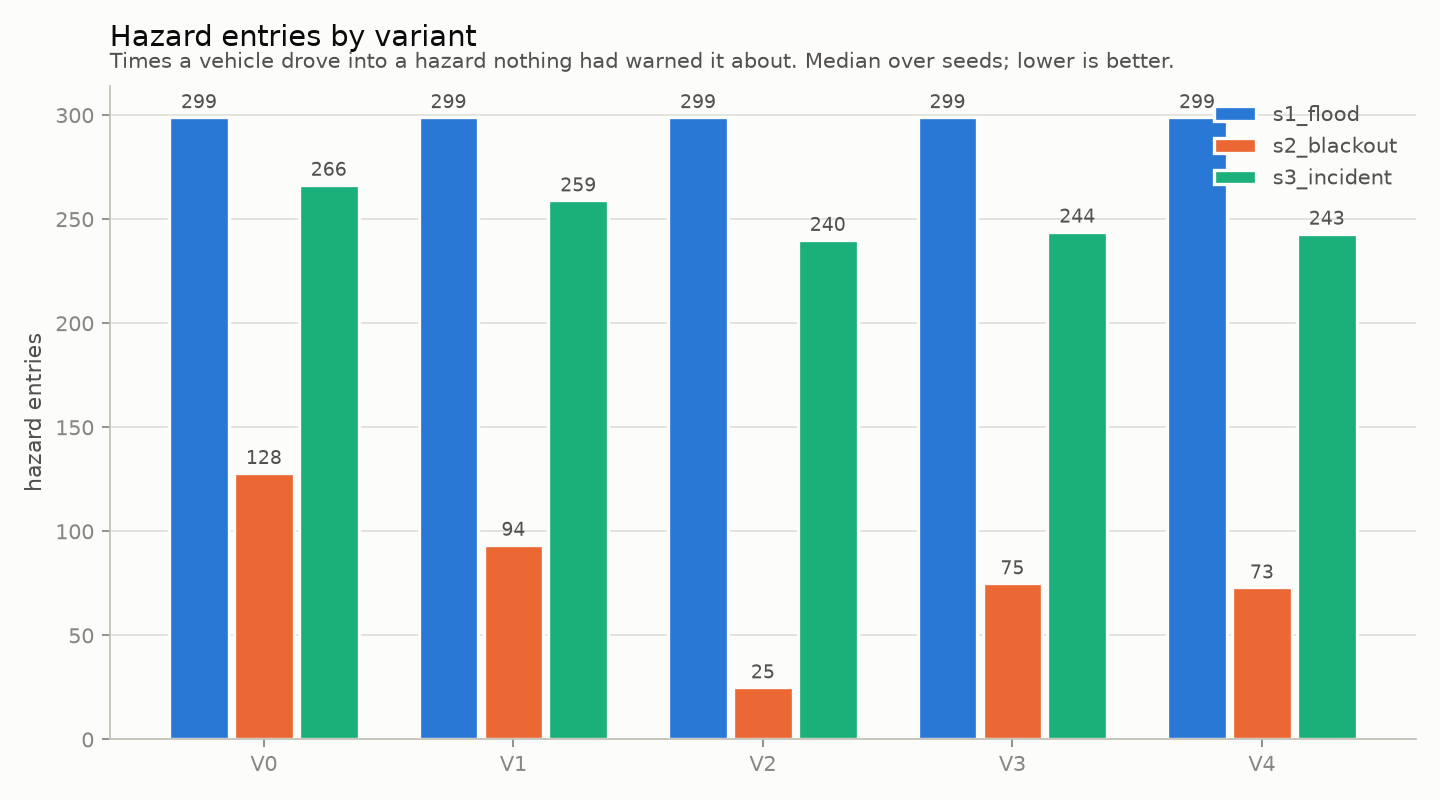
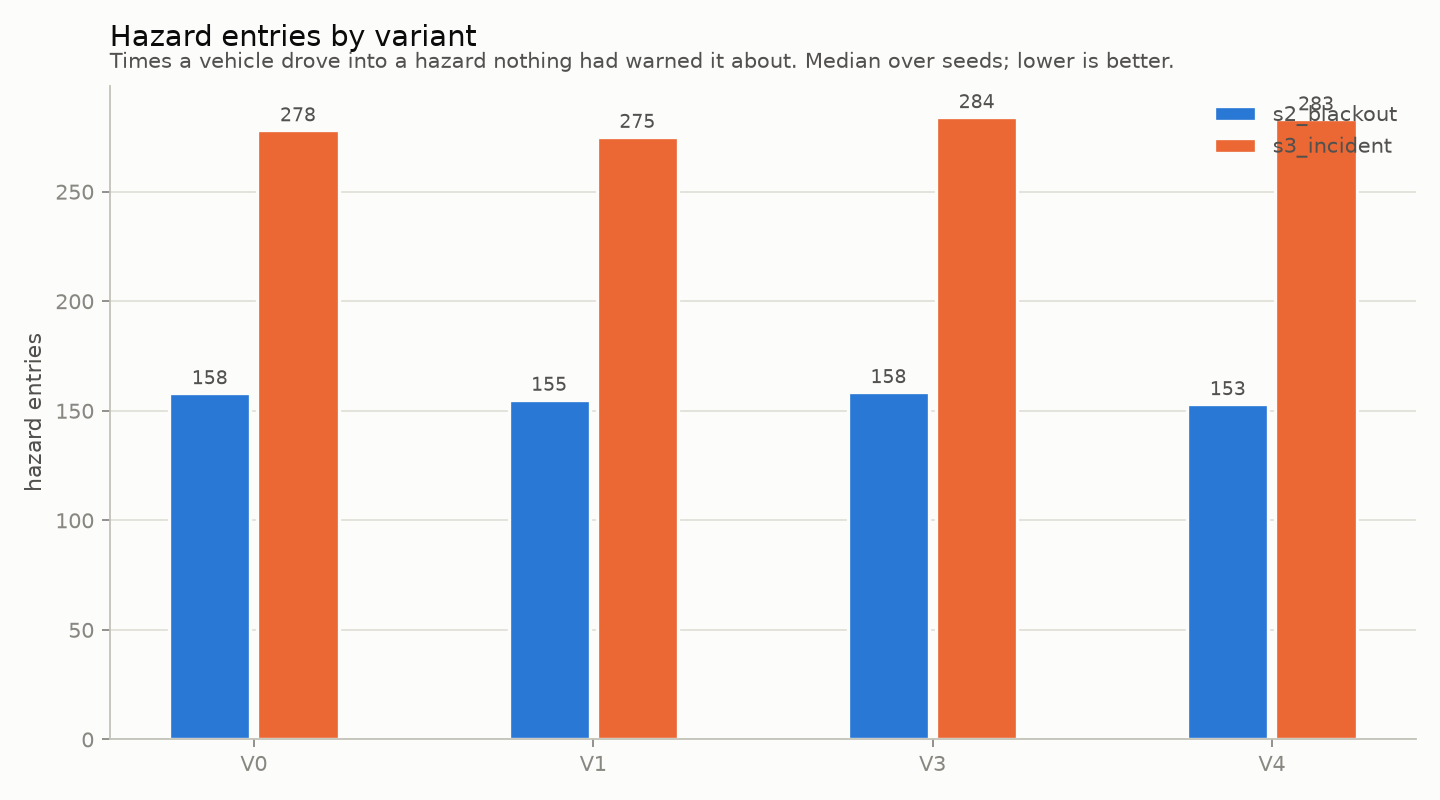
docs(results): ablation table and charts from the full evaluation run

diff --git a/results/ablation.md b/results/ablation.md
@@ -1,49 +1,36 @@
 # Ablation: what Heads Up changes
 
-*21 runs, 21 measurable, written 2026-10-24T14:11:42.186005+00:00.*
+*20 runs, 20 measurable, written 2026-10-25T14:33:27.642092+00:00.*
 
 Every figure below was computed by reading the runs' hash-chained audit logs and nothing else. Each row of `ablation.csv` names the run id its numbers came from; `uv run hu audit verify <run_id>` re-checks that log line by line.
 
 ## What was run
 
-- Wall-clock minutes per run: 1
-- Model mode: mock
+- Wall-clock minutes per run: 10
+- Model mode: claude
 - Variants:
   - **V0** - baseline, no Heads Up: fleets ghost, rules only, no agents, seeds from `rules`
   - **V1** - rules only, no model: fleets live+ghost, rules only, mesh, critic, seeds from `rules`
-  - **V2** - single orchestrator: fleets live+ghost, model, orchestrator, seeds from `ai`
   - **V3** - mesh without critic: fleets live+ghost, model, mesh, seeds from `ai`
   - **V4** - full Heads Up: fleets live+ghost, model, mesh, critic, seeds from `ai`
-
-## s1_flood
-
-| variant | runs | hazard entries | time to advisory (s) | assist peak | assist p95 wait (s) | blocked corridor (veh-min) | rides/veh/h | extra min per reroute | false-positive area-hours | LLM $/sim hour | p95 agent latency (ms) |
-| --- | --- | --- | --- | --- | --- | --- | --- | --- | --- | --- | --- |
-| V0 | 2 | 299.0 | - | 299.0 | 3465.0 | 0.0 | 1.010 | - | 0.000 | 0.0000 | - |
-| V1 | 2 | 299.0 | - | 299.0 | 3465.0 | 0.0 | 1.010 | - | 0.000 | 0.0000 | 3456 |
-| V2 | 1 | 299.0 | - | 299.0 | 3480.0 | 0.0 | 0.988 | - | 0.000 | 0.0000 | 3176 |
-| V3 | 1 | 299.0 | - | 299.0 | 3480.0 | 0.0 | 0.988 | - | 0.000 | 0.0000 | 3636 |
-| V4 | 1 | 299.0 | - | 299.0 | 3480.0 | 0.0 | 0.988 | - | 0.000 | 0.0000 | 4208 |
 
 ## s2_blackout
 
 | variant | runs | hazard entries | time to advisory (s) | assist peak | assist p95 wait (s) | blocked corridor (veh-min) | rides/veh/h | extra min per reroute | false-positive area-hours | LLM $/sim hour | p95 agent latency (ms) |
 | --- | --- | --- | --- | --- | --- | --- | --- | --- | --- | --- | --- |
-| V0 | 2 | 128.0 | - | 128.0 | 2925.0 | 0.0 | 12.276 | - | 0.000 | 0.0000 | - |
-| V1 | 2 | 93.5 | 5.1 | 76.0 | 1620.0 | 0.0 | 14.417 | - | 0.000 | 0.0000 | 5028 |
-| V2 | 1 | 25.0 | 0.1 | 25.0 | 2910.0 | 0.0 | 15.109 | - | 0.413 | 0.0000 | 50063 |
-| V3 | 1 | 75.0 | 5.1 | 57.0 | 1530.0 | 0.0 | 14.790 | - | 0.000 | 0.0000 | 5008 |
-| V4 | 1 | 73.0 | 5.1 | 59.0 | 1620.0 | 0.0 | 14.770 | - | 0.000 | 0.0000 | 5033 |
+| V0 | 3 | 158.0 | - | 158.0 | 4350.0 | 0.0 | 15.011 | - | 0.000 | 0.0000 | - |
+| V1 | 3 | 155.0 | 5.1 | 135.0 | 3030.0 | 0.0 | 15.254 | - | 1.219 | 0.0000 | 52853836 |
+| V3 | 2 | 158.5 | 8.4 | 135.0 | 3105.0 | 0.0 | 15.313 | - | 0.000 | 0.0024 | 14360 |
+| V4 | 2 | 153.0 | 9.1 | 131.5 | 3060.0 | 0.0 | 15.285 | - | 0.000 | 0.0073 | 37443 |
 
 ## s3_incident
 
 | variant | runs | hazard entries | time to advisory (s) | assist peak | assist p95 wait (s) | blocked corridor (veh-min) | rides/veh/h | extra min per reroute | false-positive area-hours | LLM $/sim hour | p95 agent latency (ms) |
 | --- | --- | --- | --- | --- | --- | --- | --- | --- | --- | --- | --- |
-| V0 | 2 | 266.5 | - | 265.5 | 2310.0 | 0.0 | 10.454 | - | 0.000 | 0.0000 | - |
-| V1 | 2 | 259.0 | 0.1 | 258.5 | 2310.0 | 6628.0 | 10.726 | -175.07 | 0.000 | 0.0000 | 40 |
-| V2 | 1 | 240.0 | 0.1 | 238.0 | 2310.0 | 6112.1 | 11.250 | -4.96 | 0.000 | 0.0000 | 20188 |
-| V3 | 1 | 244.0 | 0.1 | 243.0 | 2310.0 | 6164.3 | 11.220 | -218.04 | 0.000 | 0.0000 | 4972 |
-| V4 | 1 | 243.0 | 0.1 | 242.0 | 2310.0 | 6165.3 | 11.203 | -313.21 | 0.000 | 0.0000 | 5009 |
+| V0 | 3 | 278.0 | - | 278.0 | 3210.0 | 0.0 | 16.295 | - | 0.000 | 0.0000 | - |
+| V1 | 3 | 275.0 | 0.1 | 274.0 | 3210.0 | 11463.5 | 16.340 | -252.23 | 0.000 | 0.0000 | 54611072 |
+| V3 | 2 | 284.0 | 3.3 | 284.0 | 3195.0 | 11413.5 | 16.122 | -89.10 | 0.000 | 0.0024 | 81672 |
+| V4 | 2 | 283.0 | 2.9 | 282.5 | 3195.0 | 11641.5 | 16.356 | -79.68 | 0.000 | 0.0011 | 80025 |
 
 ## The headline
 
@@ -51,9 +38,9 @@ On `s3_incident`, the scenario a rules-only reading of the feed is expected to s
 
 | variant | runs | blocked corridor (veh-min) | missed hazards | advisories |
 | --- | --- | --- | --- | --- |
-| V0 | 2 | 0.0 | 1.0 | 0.0 |
-| V1 | 2 | 6628.0 | 0.0 | 1.0 |
-| V4 | 1 | 6165.3 | 0.0 | 2.0 |
+| V0 | 3 | 0.0 | 1.0 | 0.0 |
+| V1 | 3 | 11463.5 | 0.0 | 4.0 |
+| V4 | 2 | 11641.5 | 0.0 | 4.0 |
 
 ## Charts
 
